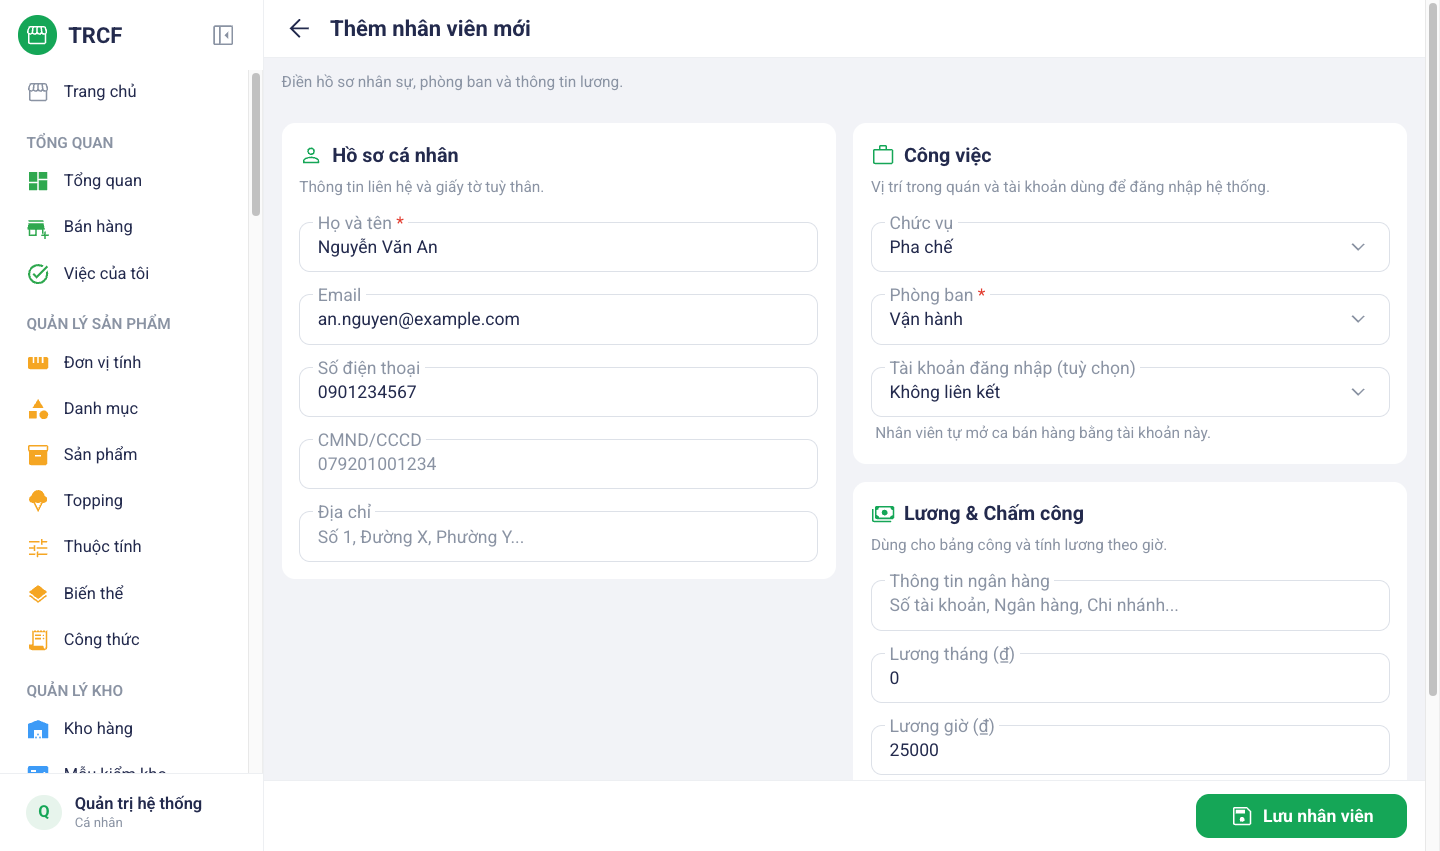
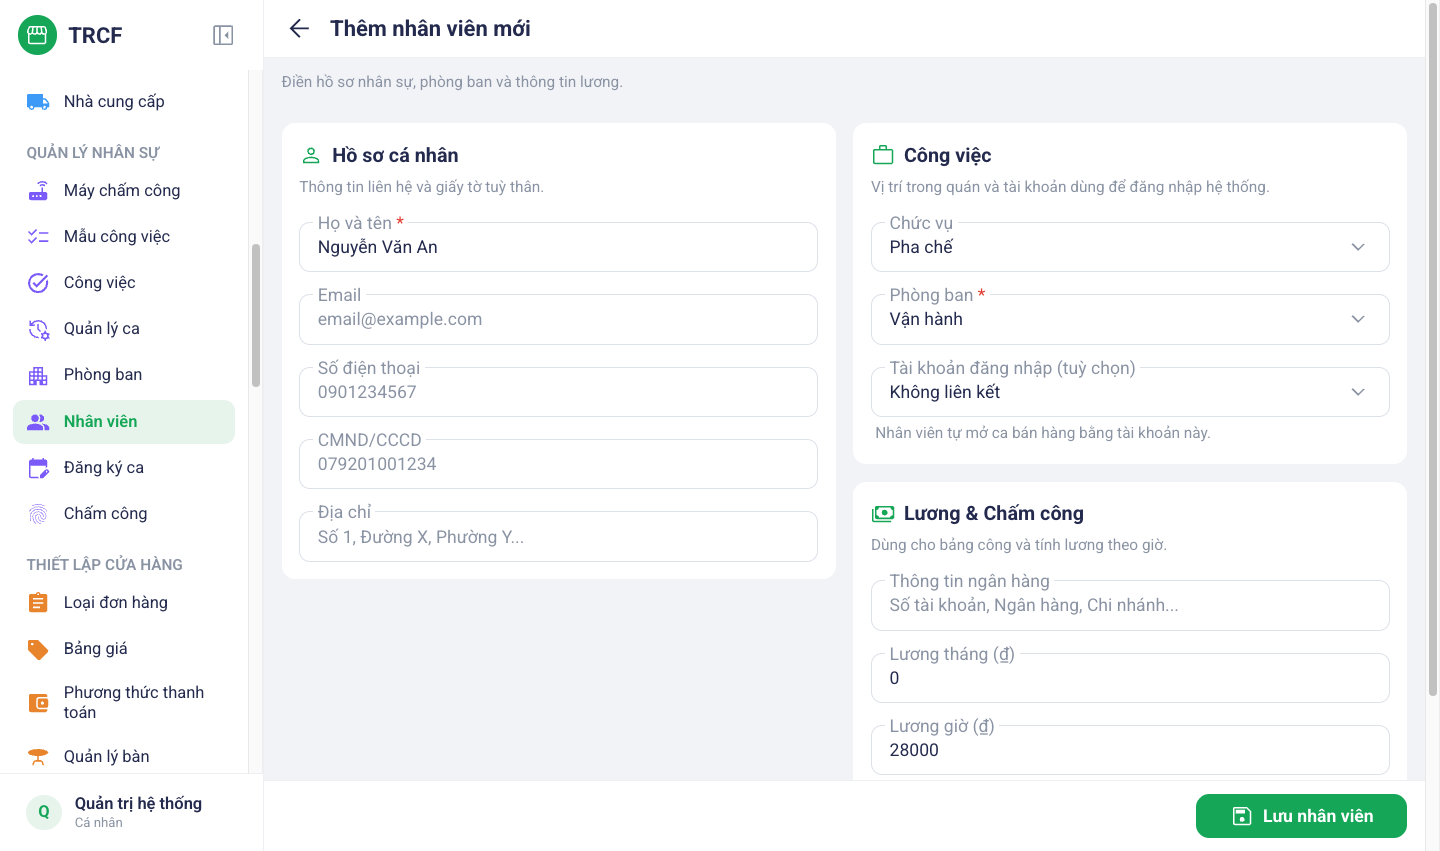
docs(8.1): ví dụ nhân viên theo dữ liệu thật — ID chấm công 18, lương giờ 28.000; che tên và email nhân viên thật

diff --git a/noi-dung/8-1-tao-nhan-vien.md b/noi-dung/8-1-tao-nhan-vien.md
@@ -16,7 +16,8 @@ Menu trái: ==Quản lý nhân sự → Nhân viên== (địa chỉ `/employees`
 > **Ví dụ:** thêm nhân viên pha chế **Nguyễn Văn An**.
 >
 > - Chức vụ: **Pha chế**. Phòng ban: **Vận hành**.
-> - ID Chấm công: **101** (khớp mã trên máy chấm công). Lương giờ: **25000**.
+> - ID Chấm công: **18** — số kế tiếp sau mã lớn nhất đang dùng (17), trùng với số đã khai cho người này trên máy chấm công.
+> - Lương giờ: **28000**, bằng mức của các bạn pha chế khác trong quán.
 
 ### Bước 1: Mở trang Nhân viên
 
